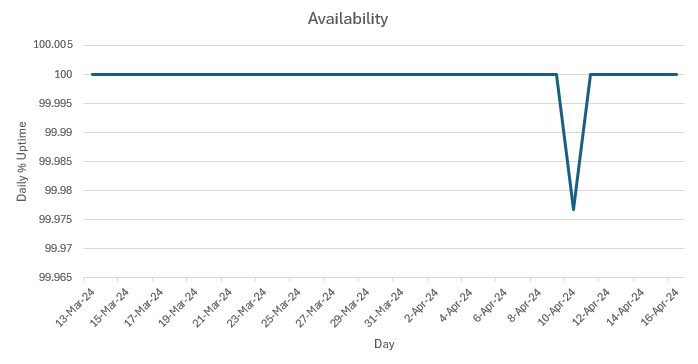
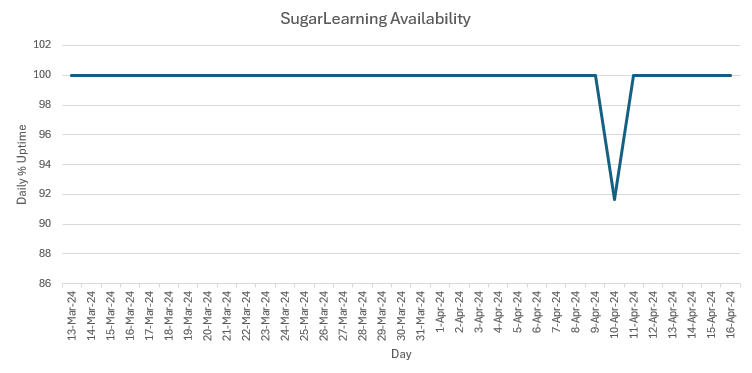
Updates availability graph to be more obvious.

diff --git a/rules/communicate-your-product-status/rule.md b/rules/communicate-your-product-status/rule.md
@@ -215,7 +215,7 @@ Here is a summary of recent progress made for SugarLearning.
 
 #### Operations - Issues Seen in Production
 
-* Outage Wednesday 10 April 2024 - Site taken offline for 20 minutes due to an incorrect database connection string being set during deployment tests
+* Outage Wednesday 10 April 2024 - Site taken offline for 2 hours due to a configuration error made when creating the new deployment pipeline
 * Performance - Requests to retrieve a learner's backlog are averaging 20 seconds
   * Recommendation - Upgrade Azure SQL Database Service and Compute Tier plan from "basic" to "standard"
 
